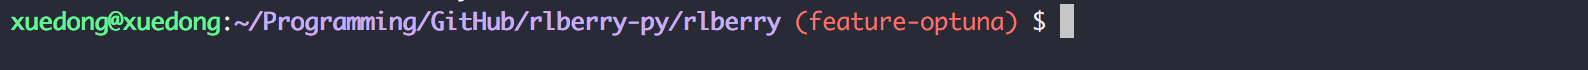
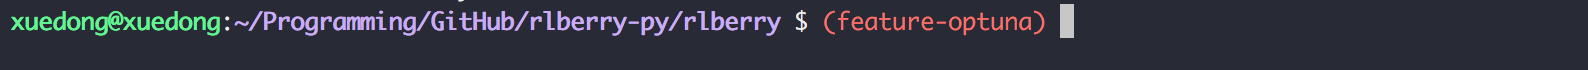
Finish the prompt post

Changed region(s): [[0.4937, 0.1429, 0.6788, 0.5143]]

diff --git a/_posts/2020-11-29-macos-terminal-prompt.md b/_posts/2020-11-29-macos-terminal-prompt.md
@@ -11,41 +11,16 @@ In this post, I will show how I use the following instructions to create my pers
 
 The final output will look like the following:
 
-<img src="assets/terminal_prompt/color_git.png">
+<img src="/assets/terminal_prompt/color_git.png">
 
-First, we need to create a `.bash_profile` file under your home path if it does not exist already:
+First, we need to create a `.bash_profile` file and a `.bashrc` file under your home path if they do not exist already:
 ```bash
 touch ~/.bash_profile
+touch ~/.bashrc
 ```
 
+Now, add the following instructions to your `.bashrc` to set a color scheme for your Terminal prompt.
 ```bash
-parse_git_branch() {
-	git branch 2> /dev/null | sed -e '/^[^*]/d' -e 's/* \(.*\)/ (\1)/'
-}
-
-get_git_root() {
-	basename $(git rev-parse --show-toplevel 2> /dev/null) 2> /dev/null
-}
-
-update_git_prompt()
-{
-	GIT_BRANCH=$(parse_git_branch)
-
-	if [ -n "$GIT_BRANCH" ]; then
-		GIT_ROOT=$(get_git_root)
-		echo -ne "\033]0;$(get_git_root): $(parse_git_branch)\007"
-	else
-		echo -ne "\033]0;\007"
-	fi
-}
-
-PROMPT_COMMAND="update_git_prompt; $PROMPT_COMMAND"
-
-# uncomment for a colored prompt, if the terminal has the capability; turned
-# off by default to not distract the user: the focus in a terminal window
-# should be on the output of commands, not on the prompt
-#force_color_prompt=yes
-
 if [ -n "$force_color_prompt" ]; then
 	if [ -x /usr/bin/tput ] && tput setaf 1 >&/dev/null; then
 		color_prompt=yes
@@ -55,9 +30,29 @@ if [ -n "$force_color_prompt" ]; then
 fi
 
 if [ "$color_prompt" = yes ]; then
-	PS1='${debian_chroot:+($debian_chroot)}\[\033[01;32m\]\u@\h\[\033[00m\]:\[\033[01;34m\]\w\[\033[00m\]'
+	PS1='${debian_chroot:+($debian_chroot)}\[\033[01;32m\]\u@\h\[\033[00m\]:\[\033[01;34m\]\w\[\033[00m\] $'
 else
-	PS1='${debian_chroot:+($debian_chroot)}\u@\h:\w'
+	PS1='${debian_chroot:+($debian_chroot)}\u@\h:\w $'
 fi
 unset color_prompt force_color_prompt
 ```
+
+Then add the following instructions to your `.bash_profile` to display the Git branch name with red color:
+
+```bash
+if [ "${BASH-no}" != "no" ]; then
+	[ -r ~/.bashrc ] && . ~/.bashrc
+fi
+
+# Git prompt with branch
+export PS1="$PS1\[\033[31m\]\$(parse_git_branch)\[\033[00m\] "
+```
+
+Here since the `$PS1` variable has already been exported by the `.bashrc` file, we need to append the branch information to it instead of exporting it again. The `\[\033[31m\]` part sets the `\$(parse_git_branch)` to red.
+
+Finally, to make everything function, tap
+```console
+source ~/.bashrc
+source ~/.bash_profile
+```
+in your Terminal. You can play around with the `$PS1` variable to make your own color scheme or prompt style.
